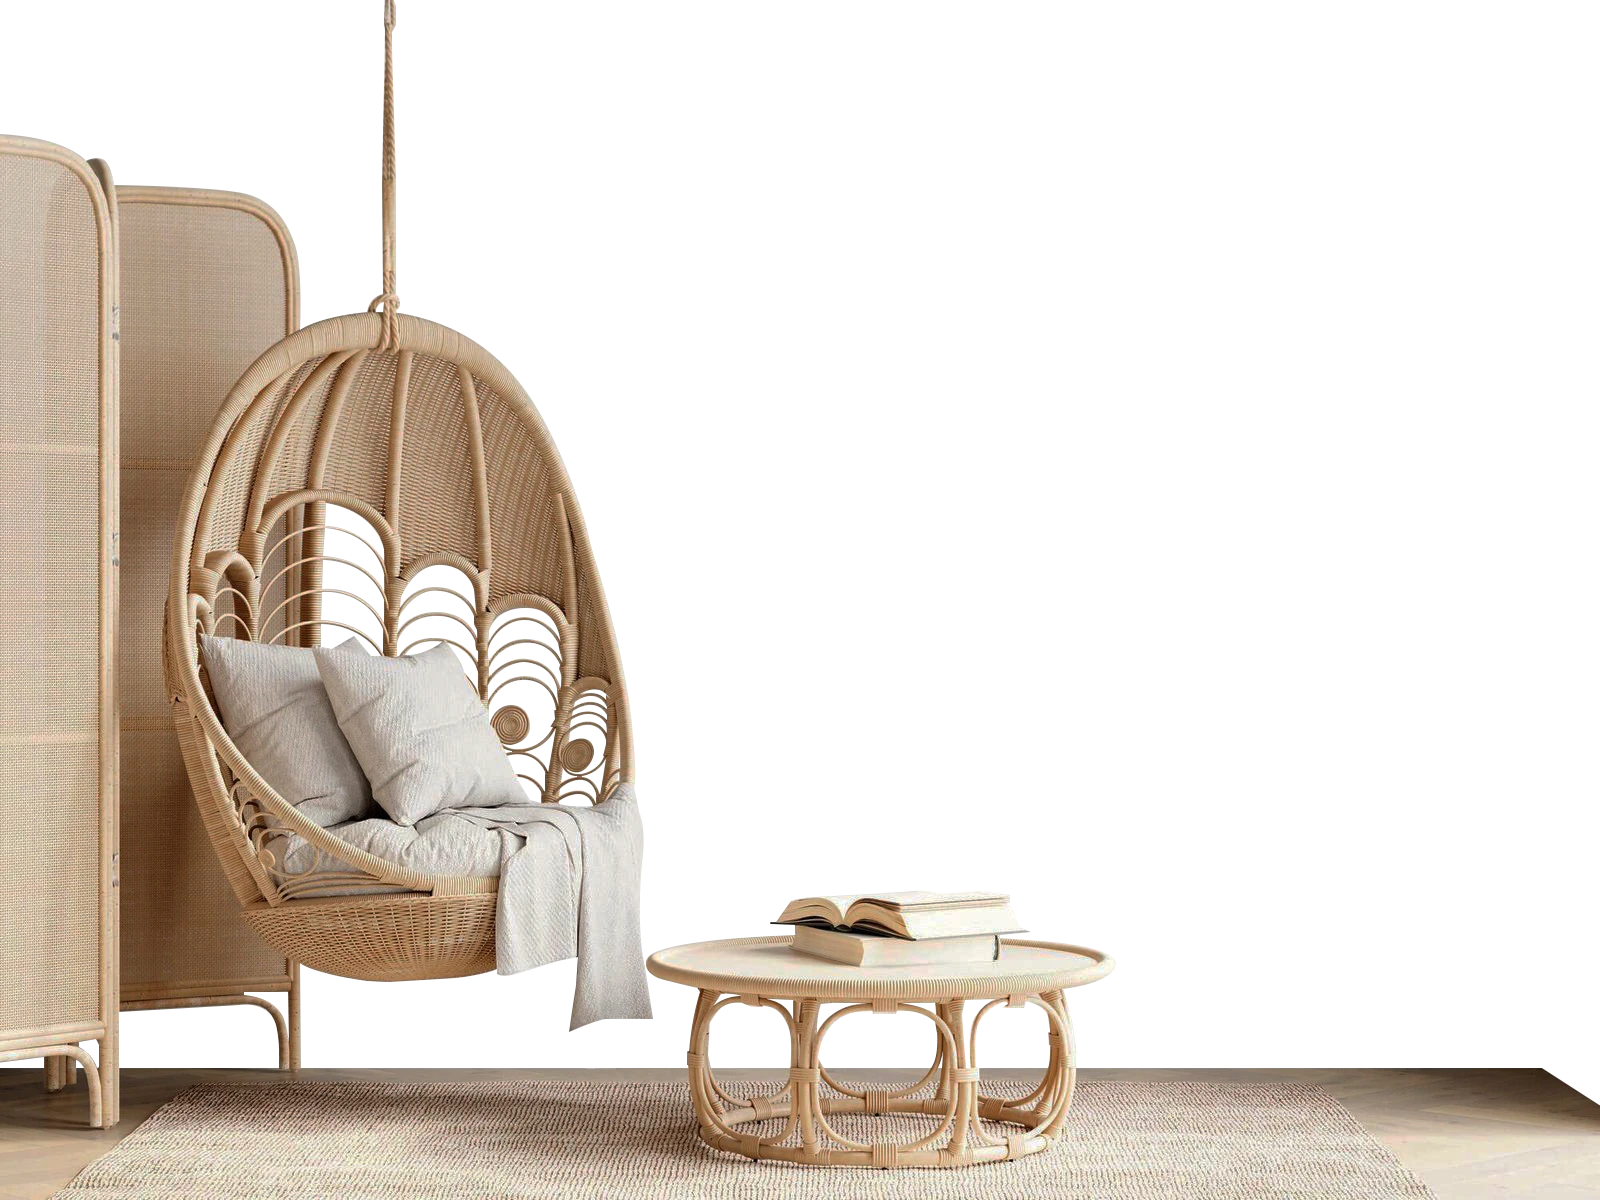
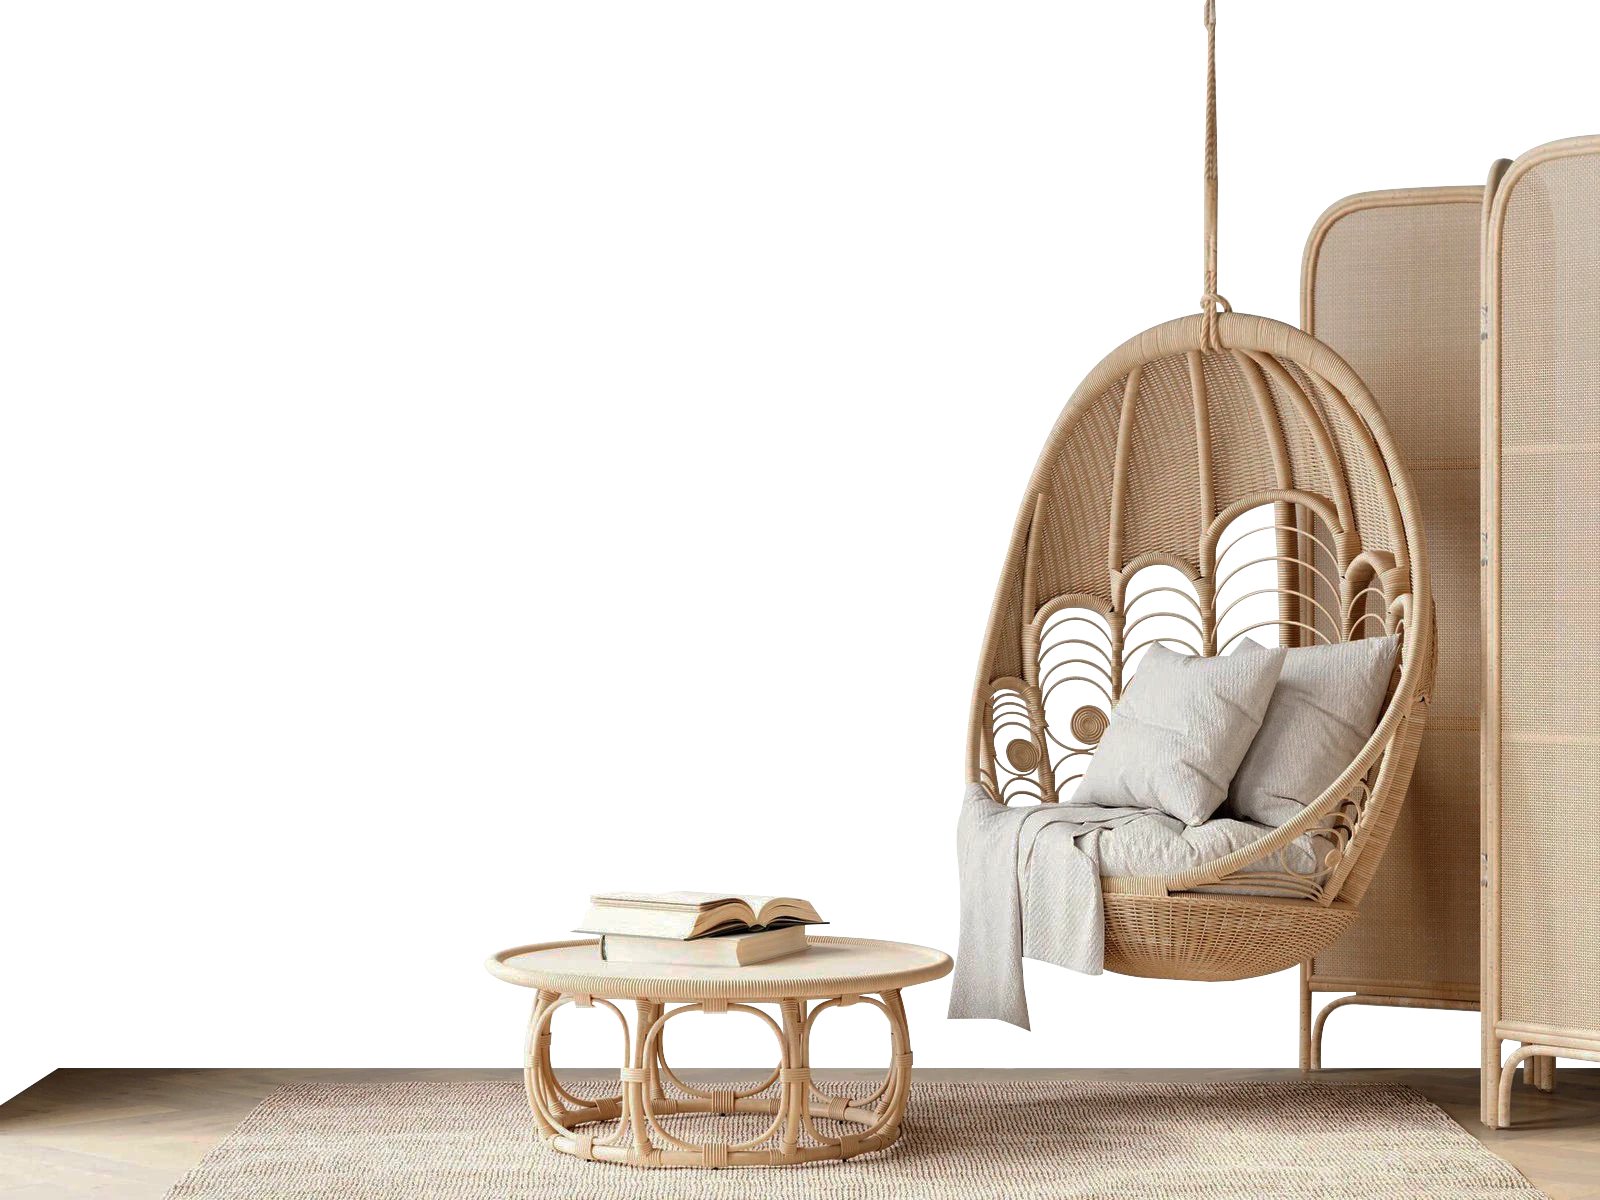
update hero

diff --git a/index.html b/index.html
@@ -46,23 +46,23 @@
   <div class="custom-cursor"></div>
   <div id="fullpage">
     <section id="hero" class="section">
-      <div class="container-fluid ">
+      <div class="container-fluid overflow-hidden">
         <div class="d-block d-lg-none">
           <div class="row items">
-            <div class="col-lg-7 d-flex justify-content-center">
-              <img src="src/assets/images/Frame 32.png" class="img-fluid">
+            <div class="col-lg-7 slide-in-right d-flex justify-content-center">
+              <img src="src/assets/images/Frame 32.png" class=" img-fluid">
             </div>
           </div>
-          <div class="hero"></div>
+          <div class="hero slide-in-left"></div>
         </div>
-        <div class="hero d-none d-lg-block">
+        <div class="hero slide-in-left d-none d-lg-block">
           <div class="row d-lg-block items">
-            <div class="col-lg-7 d-flex flex-column align-items-center gap-2 justify-content-center">
+            <div class="col-lg-7 d-flex slide-in-bottom flex-column align-items-center gap-2 justify-content-center">
               <!-- <object data="./src/assets/icon/Group 2.svg" width="10%" type="image/svg+xml"></object>
               <object data="./src/assets/icon/Group 6.svg" type="image/svg+xml"></object>
               <object data="./src/assets/icon/seratan.svg" type="image/svg+xml"></object>
               <object data="./src/assets/icon/furniture.svg" type="image/svg+xml"></object> -->
-              <img src="src/assets/images/Frame 32.png" class="img-fluid">
+              <img src="src/assets/images/Frame 32.png" class=" img-fluid">
             </div>
           </div>
         </div>

diff --git a/src/style/global.css b/src/style/global.css
@@ -96,12 +96,6 @@ nav a {
   height: 95dvh;
   background-image: url(../assets/images/hero.webp);
   border-radius: 30px;
-  -webkit-transform: scaleX(-1);
-  transform: scaleX(-1);
-}
-#hero .items {
-  -webkit-transform: scaleX(-1);
-  transform: scaleX(-1);
 }
 #hero img {
   margin-top: 10vh;
@@ -473,12 +467,6 @@ nav a {
   #hero .items img {
     margin-top: 0;
     width: clamp(30rem, 1dvw, 100rem);
-    -webkit-transform: scaleX(-1);
-    transform: scaleX(-1);
-  }
-  #hero .items {
-    -webkit-transform: scaleX(-1);
-    transform: scaleX(-1);
   }
   #hero .hero {
     background-repeat: no-repeat;
@@ -544,8 +532,6 @@ nav a {
   #hero .items img {
     margin-top: 0;
     width: clamp(30rem, 1dvw, 100rem);
-    -webkit-transform: scaleX(-1);
-    transform: scaleX(-1);
   }
   nav.responsive {
     position: relative;
